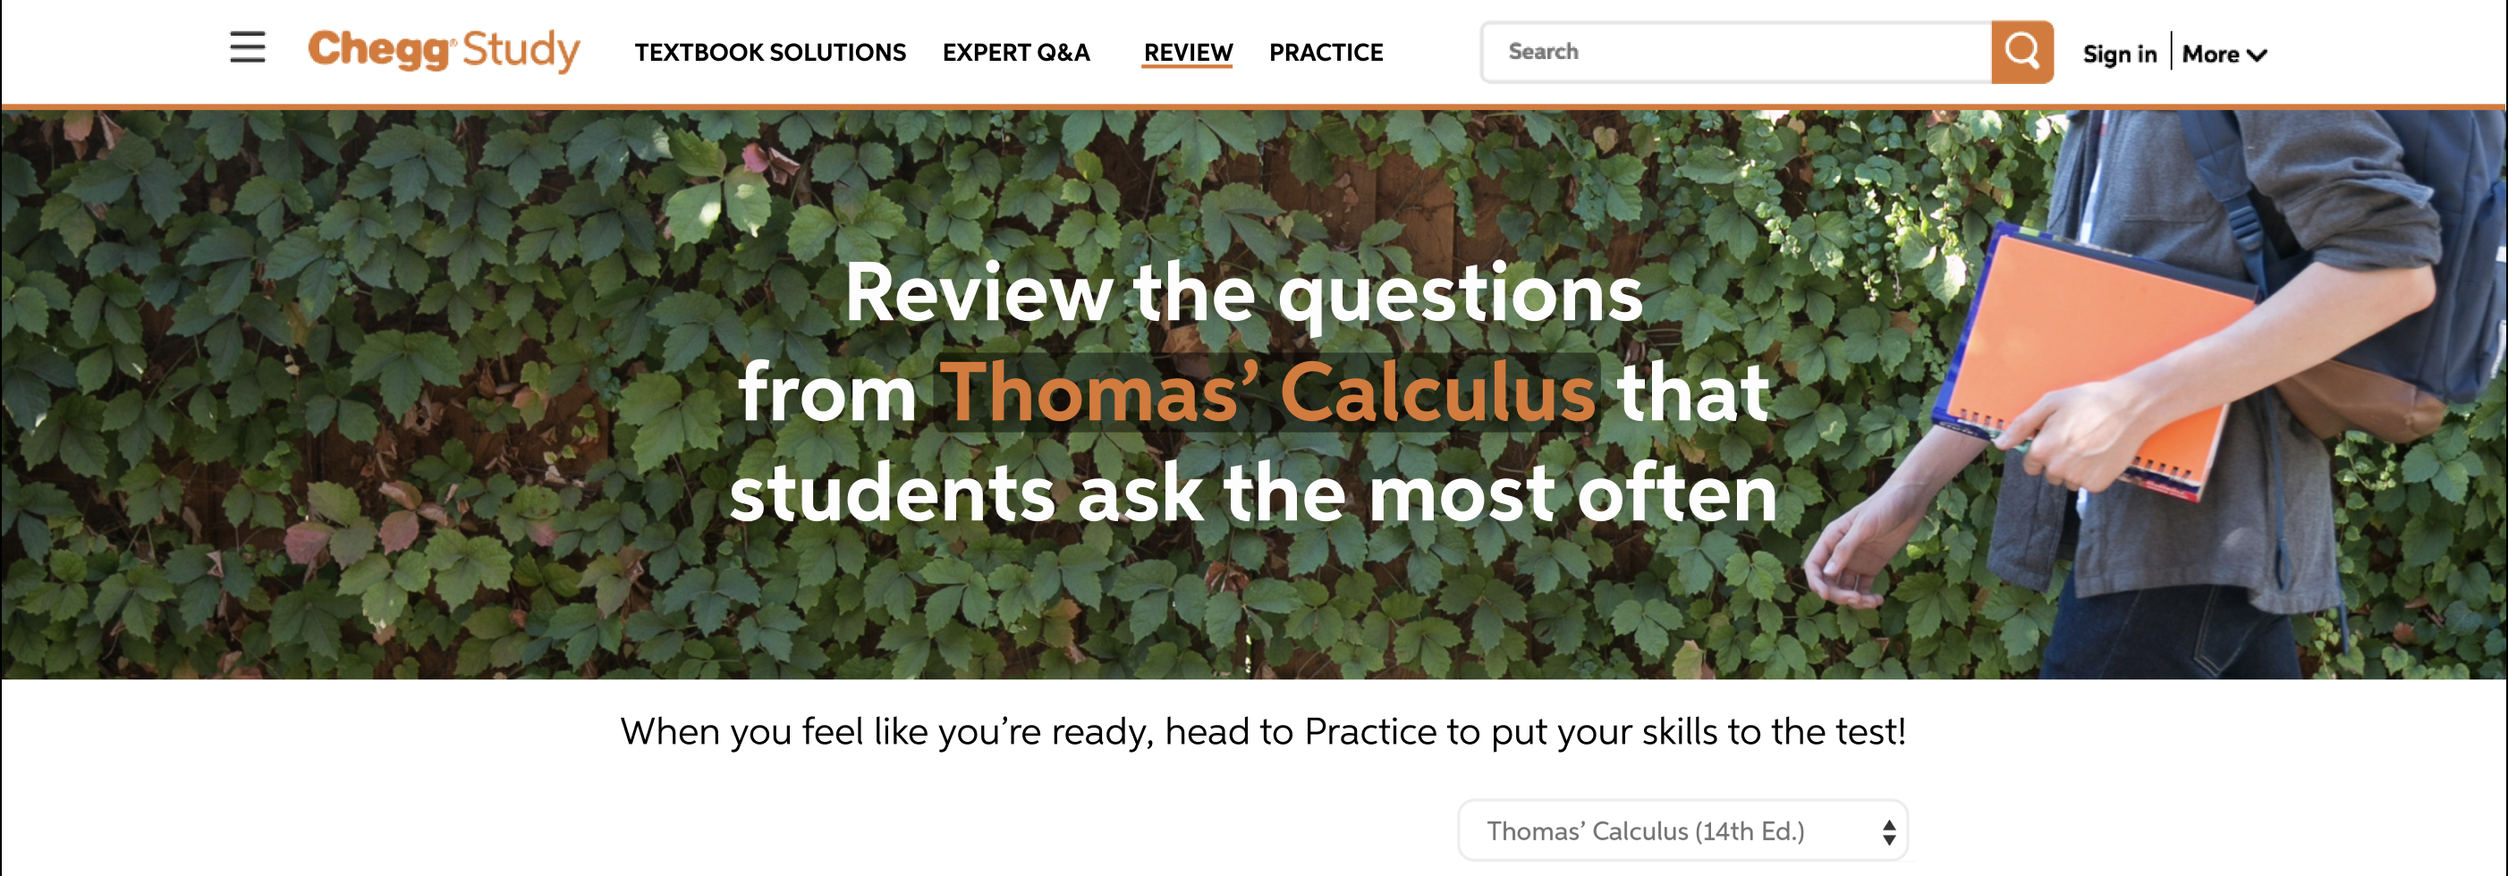
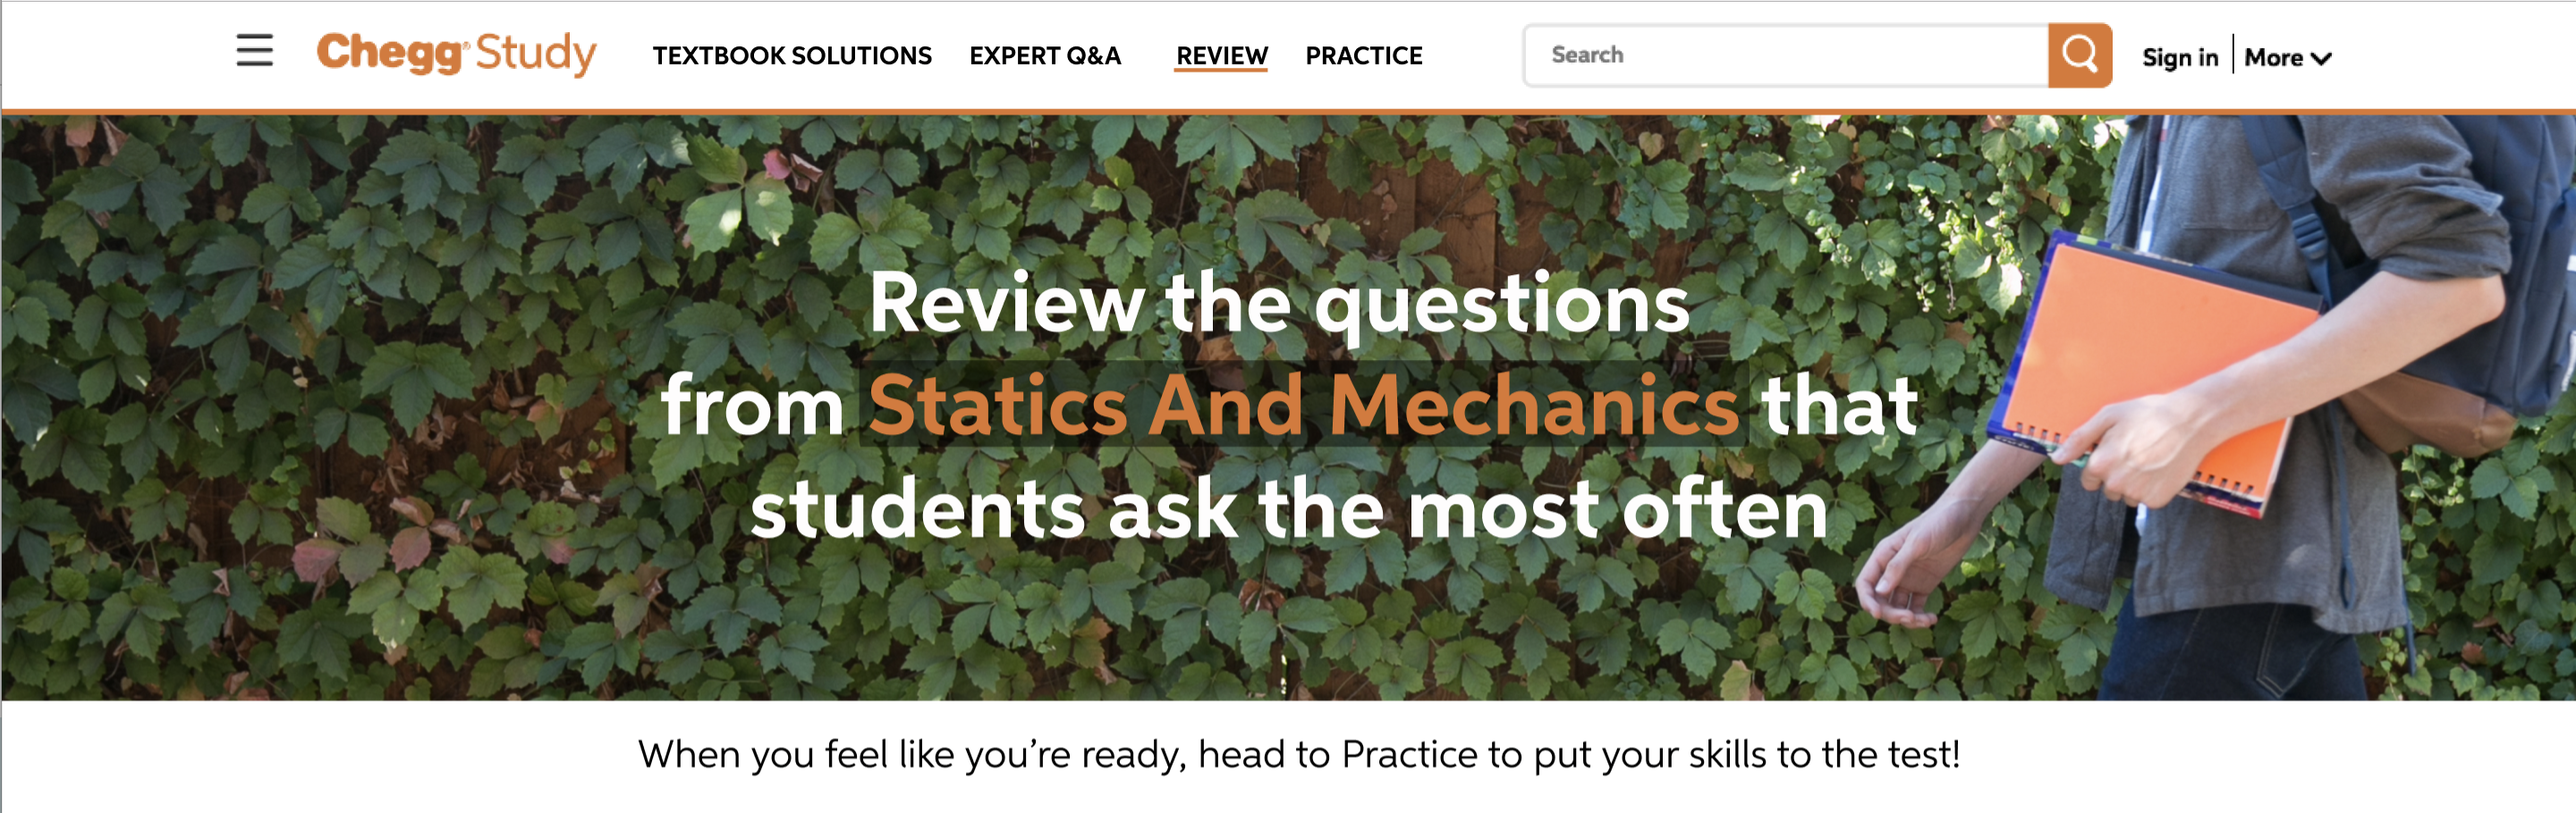
one last commit

diff --git a/chegg/src/App.css b/chegg/src/App.css
@@ -9,7 +9,7 @@
 
 .pic4 {
   width: 1450px;
-  height: 550px;
+  height: 450px;
 }
 
 .pic3 {
